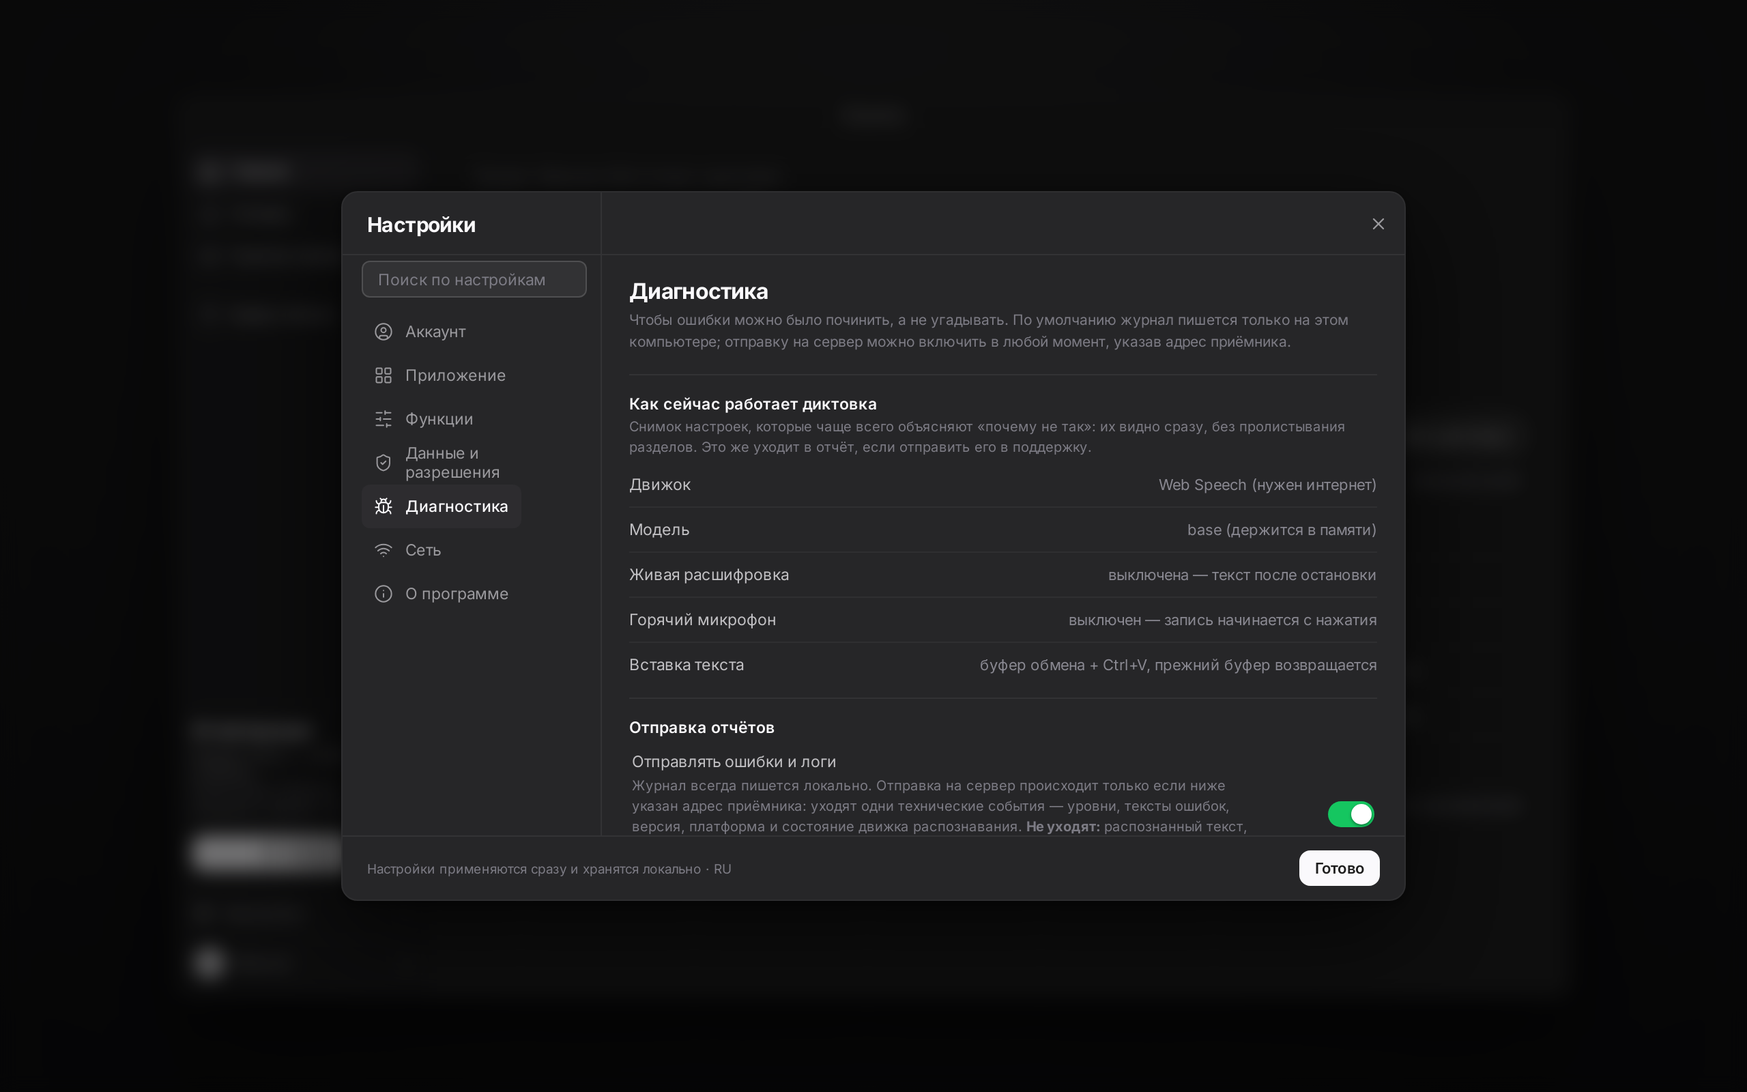
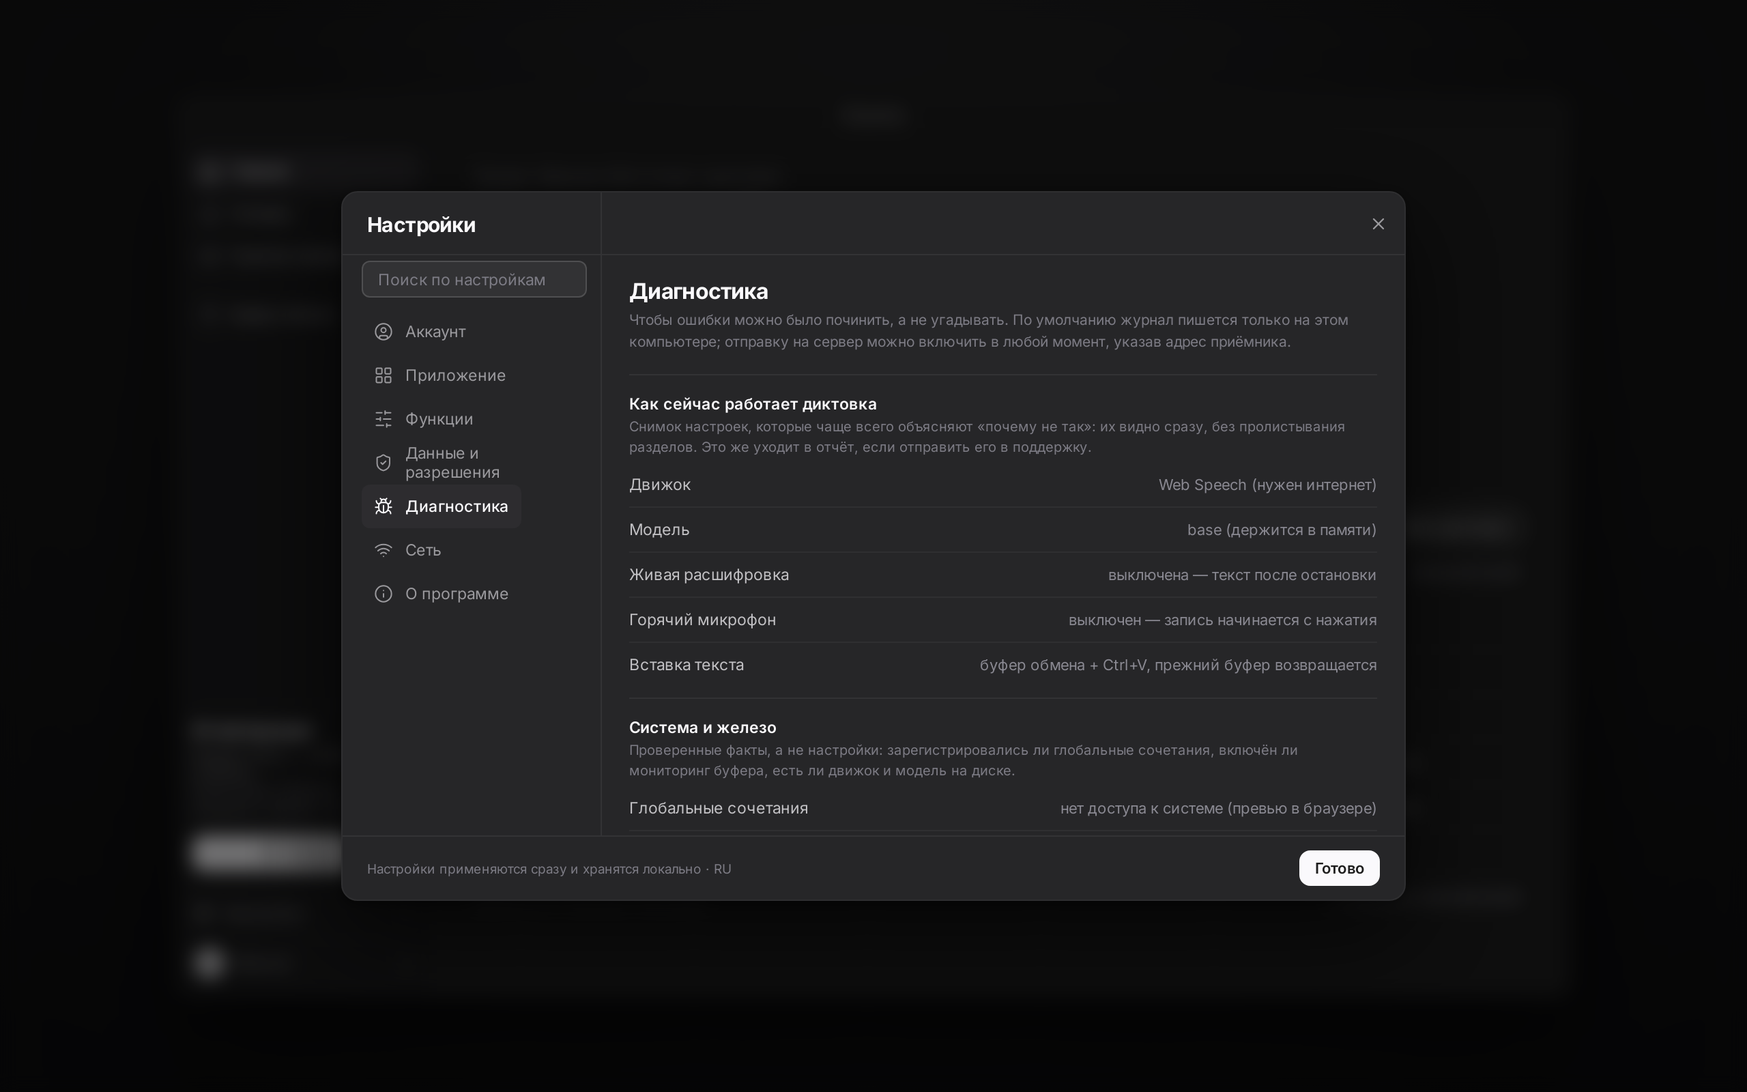
диагностика: видно, что реально работает на этой машине (1.5.6)
- diag:status отдаёт блок system: зарегистрированные сочетания, способ вставки
  и его поддержка системой, мониторинг буфера, движок, VAD-модель, модель на
  диске, ядра/память, версия — это факты, а не настройки
- «Настройки → Диагностика»: группа «Система и железо»; те же строки попадают
  в отчёт «Сохранить отчёт в файл»
- E2E: плавающий индикатор проверяется файлом с диска, как его открывает
  Electron (против preview проверка падала не по делу)
- смоук 84, E2E 239/239, vitest 139; скриншоты пересняты

Changed region(s): [[0.3438, 0.6562, 0.7812, 0.7812]]

diff --git a/src/components/settings/sections/DiagnosticsSection.jsx b/src/components/settings/sections/DiagnosticsSection.jsx
@@ -28,6 +28,8 @@ export default function DiagnosticsSection() {
   const { settings, updateSettings } = useAppData();
   const { push } = useToast();
   const [status, setStatus] = useState(null);
+  // «Система и железо» — то, что main реально проверил на этой машине
+  const system = status?.system || null;
   const [events, setEvents] = useState([]);
   const [busy, setBusy] = useState('');
   // черновик адреса приёмника: применяется по кнопке, чтобы не дёргать
@@ -330,6 +332,54 @@ export default function DiagnosticsSection() {
             {settings.insertMethod === 'sendinput'
               ? 'SendInput без буфера обмена (только Windows)'
               : 'буфер обмена + Ctrl+V, прежний буфер возвращается'}
+          </span>
+        </div>
+      </div>
+
+      <div className="settings-group">
+        <div className="settings-group__title">Система и железо</div>
+        <div className="settings-group__desc">
+          Проверенные факты, а не настройки: зарегистрировались ли глобальные сочетания, включён ли
+          мониторинг буфера, есть ли движок и модель на диске.
+        </div>
+        <div className="kv-row">
+          <span className="kv-row__key">Глобальные сочетания</span>
+          <span className="kv-row__value">
+            {system?.hotkeys?.length ? system.hotkeys.join(', ') : 'нет доступа к системе (превью в браузере)'}
+          </span>
+        </div>
+        <div className="kv-row">
+          <span className="kv-row__key">Вставка текста</span>
+          <span className="kv-row__value">
+            {system?.insertMethod === 'sendinput'
+              ? system?.insertSupported
+                ? 'SendInput, без буфера обмена'
+                : 'SendInput выбран, но работает только в Windows — сейчас буфер'
+              : 'буфер обмена + Ctrl+V'}
+          </span>
+        </div>
+        <div className="kv-row">
+          <span className="kv-row__key">Мониторинг буфера</span>
+          <span className="kv-row__value">
+            {system ? (system.clipboardWatch ? 'включён' : 'выключен') : '—'}
+          </span>
+        </div>
+        <div className="kv-row">
+          <span className="kv-row__key">Движок whisper.cpp</span>
+          <span className="kv-row__value">
+            {system ? `${system.engine}${system.vad ? ', VAD-модель на месте' : ', без VAD-модели'}` : '—'}
+          </span>
+        </div>
+        <div className="kv-row">
+          <span className="kv-row__key">Модель на диске</span>
+          <span className="kv-row__value">
+            {system ? `${system.model} — ${system.modelDownloaded ? 'скачана' : 'нет файла'}` : '—'}
+          </span>
+        </div>
+        <div className="kv-row">
+          <span className="kv-row__key">Компьютер</span>
+          <span className="kv-row__value">
+            {system ? `${system.cpus} ядер, ${system.ramGb} ГБ памяти, версия ${system.version}` : '—'}
           </span>
         </div>
       </div>

diff --git a/src/lib/config.js b/src/lib/config.js
@@ -7,7 +7,7 @@
 export const APP = {
   name: 'ZSpeakly',
   tagline: 'Не печатай, просто ZSpeakly.',
-  version: '1.5.5',
+  version: '1.5.6',
   build: '2026.11.11',
   repo: 'https://github.com/ttklon/speak',
   site: 'https://github.com/ttklon/speak#readme',

diff --git a/docs/09-CODE-MAP.md b/docs/09-CODE-MAP.md
@@ -115,7 +115,7 @@
 | --- | --- |
 | `scripts/check-ipc.mjs` | Сверяет `invoke/send` из preload с `ipcMain.handle/on` |
 | `scripts/smoke-main.mjs` | Грузит `main.cjs` с заглушкой Electron: 80 проверок — IPC, хоткеи, подсказка whisper (словарь + контекст экрана, ≤500), HTTP к локальной модели, снимок экрана, мониторинг буфера (новое копирование, своя вставка не дублируется, выключенный мониторинг молчит), двойное нажатие для «агента», сообщение о занятом сочетании, переключатель для своих сочетаний диктовки и screen-aware в E2E |
-| `scripts/test-ui.mjs` + `scripts/e2e/mock-bridge.mjs` | E2E в Chromium: мок моста `window.zspeakly` с журналом вызовов, фейковый микрофон Chromium (`--use-fake-device-for-media-stream`), обход всех кнопок/полей на каждом экране, 74 сценария / 238 проверок: обход, режимы диктовки (кнопка, хоткей, свободные руки, агент, диктовка с учётом экрана), вставка текста в активное окно, настройки и их связь с main, контраст и переполнение в обеих темах и в узком окне (1024/900 px), доступные имена кнопок и видимый фокус |
+| `scripts/test-ui.mjs` + `scripts/e2e/mock-bridge.mjs` | E2E в Chromium: мок моста `window.zspeakly` с журналом вызовов, фейковый микрофон Chromium (`--use-fake-device-for-media-stream`), обход всех кнопок/полей на каждом экране, 74 сценария / 239 проверок: обход, режимы диктовки (кнопка, хоткей, свободные руки, агент, диктовка с учётом экрана), вставка текста в активное окно, настройки и их связь с main, контраст и переполнение в обеих темах и в узком окне (1024/900 px), доступные имена кнопок и видимый фокус |
 | `scripts/capture-screenshots.mjs` | 14 кадров интерфейса (тёмная и светлая темы) прямо из работающего Vite |
 | `scripts/capture-hud.mjs` | снимок плавающего индикатора из `electron/hud.html` (`docs/screenshots/16-dictation-hud.png`) |
 | `scripts/test-whisper-live.mjs` | Настоящий `whisper-cli` на WAV: разбор ответа, `code: 'empty'`, удаление `.out.txt`, отмена прохода, подхват VAD-модели (`ZS_WHISPER_VAD`) — 9 проверок (в CI — на скачанной сборке whisper.cpp) |
@@ -199,7 +199,7 @@ Ctrl+Alt+E (или своя инструкция)
 | Буфер | `clipboard:read`, `clipboard:write`, `clipboard:screenshot`, `screen:capture` |
 | Хоткеи | `hotkey:set` (строка-акселератор или `{dictationKey, textActions, voiceHotkeys}`) |
 | Сеть (только локально) | `http:get`, `http:post` — allowlist: localhost, `*.local`, 10/8, 192.168/16, 172.16/12 |
-| Диагностика | `diag:log`, `diag:status`, `diag:recent`, `diag:set-enabled`, `diag:set-endpoint`, `diag:save-report`, `diag:send-now`, `diag:ping`, `diag:clear` |
+| Диагностика | `diag:log`, `diag:status` (логи + проверенные факты `system`: сочетания, движок, VAD, модель на диске, способ вставки, мониторинг буфера, железо), `diag:recent`, `diag:set-enabled`, `diag:set-endpoint`, `diag:save-report`, `diag:send-now`, `diag:ping`, `diag:clear` |
 | Файлы и система | `app:open-data-folder`, `app:open-external` (белый список GitHub), `app:auto-launch`, `app:open-logs`, `app:save-file`, `app:notify` |
 | Модели | `models:status`, `models:download`, `models:download-engine`, `models:import` |
 | Обновления | `update:check`, `update:channel`, `update:download`, `update:install` |
@@ -326,7 +326,7 @@ Windows (с ретраями, кэшем Electron, фолбэком в ZIP, ес
 ```bash
 npm test                  # 134 теста (vitest + jsdom)
 npm run test:main         # 76 смоук-проверок main-процесса
-npm run test:ui           # E2E: обход кнопок, 74 сценария (238 проверок), контраст/вёрстка
+npm run test:ui           # E2E: обход кнопок, 74 сценария (239 проверок), контраст/вёрстка
 ZS_ONLY='диктовка' npm run test:ui   # один сценарий, пока чинишь именно его
 npm run check:ipc         # ни одного канала без обработчика
 npm run test:updater      # каналы обновлений

diff --git a/CHANGELOG.md b/CHANGELOG.md
@@ -4,6 +4,33 @@
 юнит (`npm test`), смоуком main-процесса (`npm run test:main`), E2E «нажать всё»
 (`npm run test:ui`) и проверками контрактов (`check:ipc`, `check:settings`, `settings:index:check`).
 
+## 1.5.6 — 2026.11.11
+
+Видно, что именно работает на этом компьютере — без догадок и без «а у меня не так».
+
+### Что изменилось
+
+- **«Диагностика → Система и железо».** Main проверяет факты и отдаёт их в окно:
+  какие глобальные сочетания реально зарегистрированы, выбран ли SendInput и
+  поддерживает ли его система, работает ли мониторинг буфера, есть ли движок и
+  VAD-модель, скачана ли выбранная модель, сколько ядер и памяти, какая версия.
+  Раньше это можно было только предполагать: `diag:status` отдавал лишь настройки
+  отправки логов.
+- Всё это уходит и в отчёт «Сохранить отчёт в файл» — по нему видно, почему на
+  конкретной машине что-то молчит.
+
+### Как проверялось
+
+- смоук main: **84** (новая проверка: блок `system` содержит ядра, память,
+  движок, модель, сочетания, способ вставки, мониторинг буфера и платформу);
+- E2E: проверка, что «Система и железо» показывает сочетания, движок, буфер и
+  память (мок отдаёт те же поля, что main);
+- E2E: плавающий индикатор теперь проверяется так же, как его открывает Electron —
+  файлом с диска (`file://…/electron/hud.html`); раньше проверка зависела от dev-сервера
+  и против собранного приложения падала не по делу;
+- обезьяний тест: 270 случайных кликов/вводов/клавиш по шести экранам —
+  ноль падений и ноль ошибок консоли (проверка разовая, в набор не входит).
+
 ## 1.5.5 — 2026.11.11
 
 Честный ответ на «а работает ли у меня?»: теперь это проверяется кнопкой, а не

diff --git a/README.md b/README.md
@@ -138,7 +138,11 @@ search). Замер на обычном CPU, архитектура base, зап
   почта и домашние пути (они заменяются на `<email>`/`<home>` ещё до записи и повторно на приёмнике);
 - `installId` — случайный uuid, генерируется на устройстве и не связан ни с именем, ни с аккаунтом;
 - в интерфейсе видно, что именно накопилось: список последних событий и кнопки
-  «Сохранить отчёт в файл», «Скопировать ошибки», «Открыть папку с логами», «Очистить журнал».
+  «Сохранить отчёт в файл», «Скопировать ошибки», «Открыть папку с логами», «Очистить журнал»;
+- блок **«Система и железо»** показывает проверенные факты, а не настройки: какие глобальные
+  сочетания действительно зарегистрированы, работает ли мониторинг буфера, есть ли на диске
+  движок и выбранная модель, каким способом вставляется текст, сколько ядер и памяти. Те же
+  строки попадают в отчёт — по нему видно, почему на конкретной машине что-то молчит.
 
 **По умолчанию отправки нет вообще** — приложение не требует ни сервера, ни аккаунта. Для тех,
 кому нужен приёмник (свой сервер, сбор команды), в `server/` лежит готовый Cloudflare Worker:
@@ -226,8 +230,8 @@ npm run electron:dev
 
 ```powershell
 npm run dist:win
-# release\ZSpeakly-Setup-1.5.5.exe      — NSIS-установщик
-# release\ZSpeakly-1.5.5-portable.exe   — портативная версия
+# release\ZSpeakly-Setup-1.5.6.exe      — NSIS-установщик
+# release\ZSpeakly-1.5.6-portable.exe   — портативная версия
 ```
 
 Готовые сборки не нужно собирать самому: они лежат в

diff --git a/docs/07-ARCHITECTURE-ELECTRON.md b/docs/07-ARCHITECTURE-ELECTRON.md
@@ -189,9 +189,9 @@ desktopCapturer, Tray, session).
 ## Тесты
 
 ```
-npm test               # vitest: 134 теста в 17 файлах (движки, пресеты, буфер, пароли, рендер)
-npm run test:main      # смоук main: IPC, хоткеи, вставка, whisper, буфер, трей, SendInput (78)
-npm run test:ui        # E2E «нажать всё» в Chromium: 74 сценария / 238 проверок
+npm test               # vitest: 139 тестов в 18 файлах (движки, пресеты, буфер, пароли, рендер, самопроверка)
+npm run test:main      # смоук main: IPC, хоткеи, вставка, whisper, буфер, трей, SendInput, отчёт о системе (84)
+npm run test:ui        # E2E «нажать всё» в Chromium: 74 сценария / 239 проверок
 npm run test:whisper   # настоящий whisper-cli: разбор ответа, .out.txt, отмена, VAD (в CI — на скачанной сборке)
 npm run check:ipc      # каждый канал рендерера имеет обработчик
 npm run check:settings # каждая настройка читается и находится поиском
